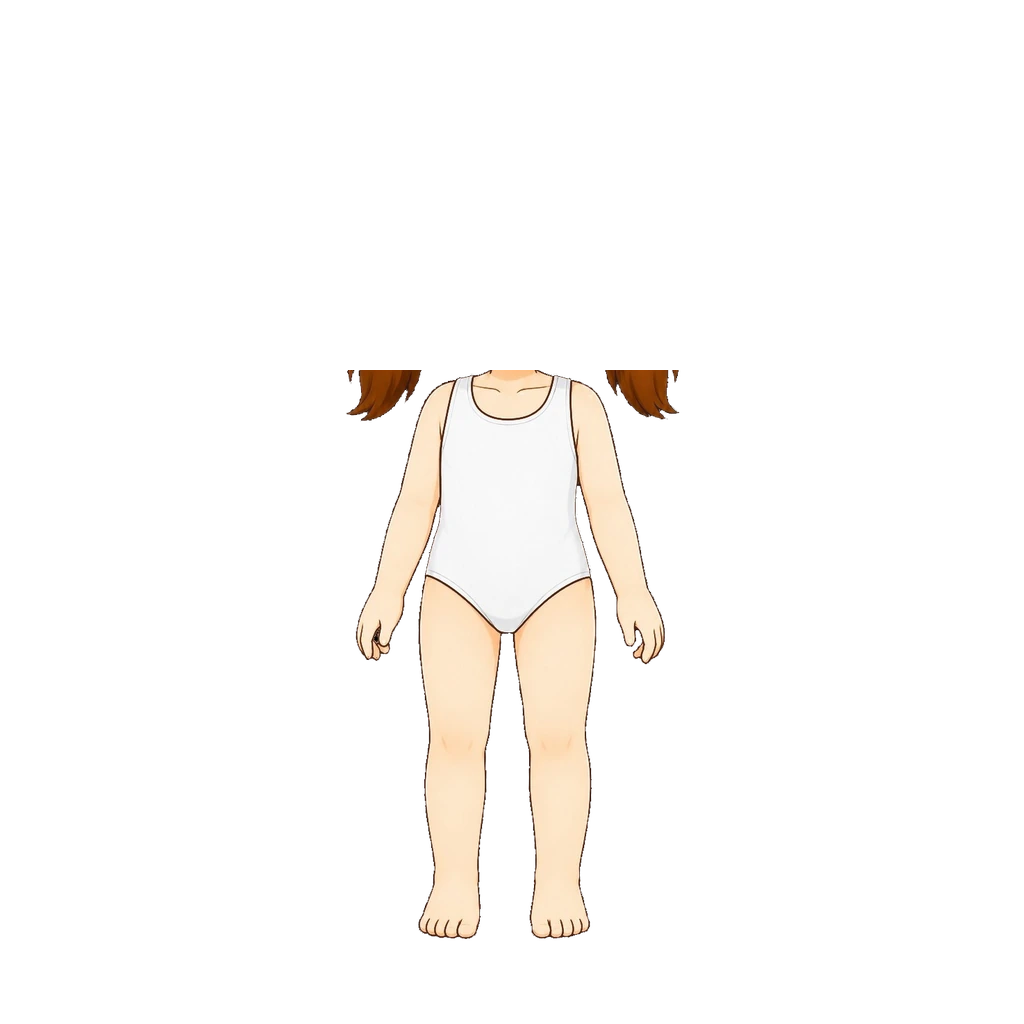
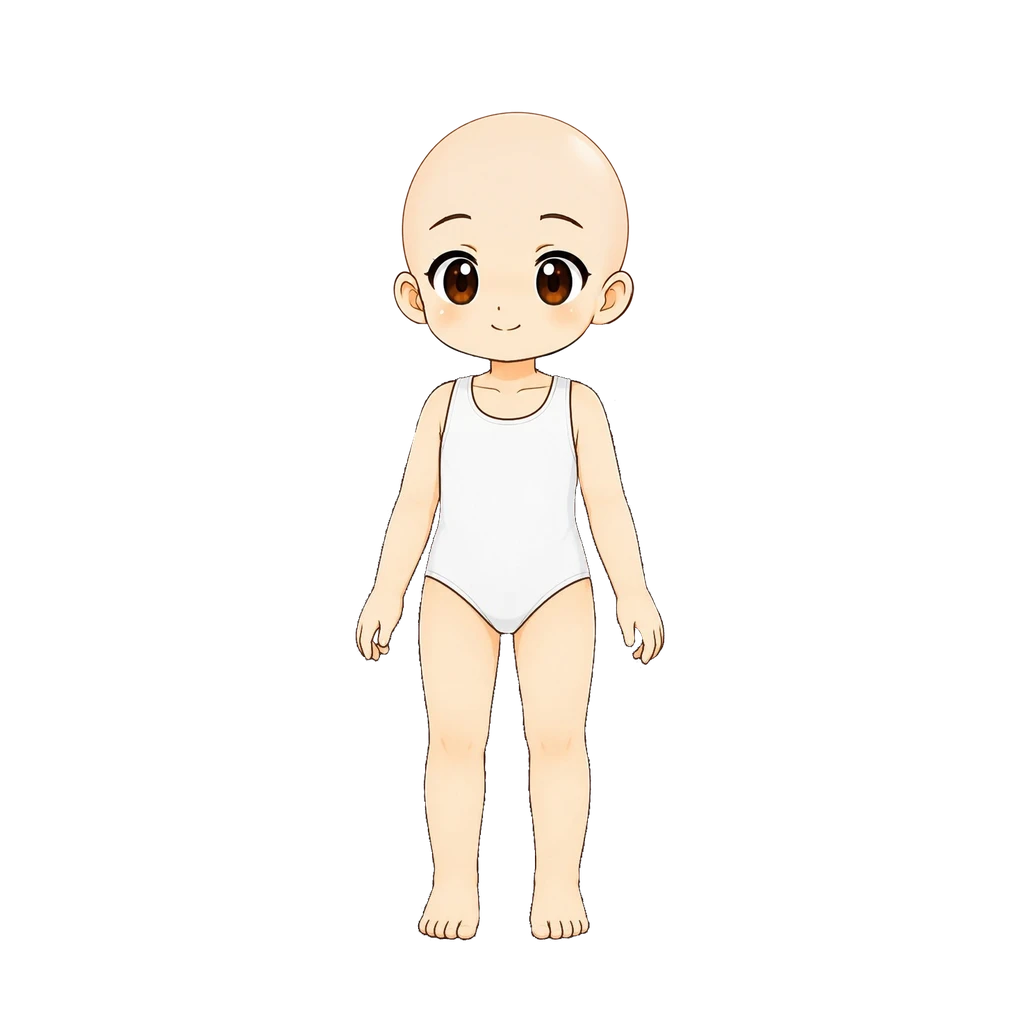
여아 베이스 v10: 민머리 몸 + 머리카락 머리 (#757)
남아 v10과 같은 구조. 합본을 v8 실루엣에 맞춰(IoU 0.991) 기존 여아 옷·모자는 그대로 맞는다. 머리 장의 턱선 아래 살색 띠는 얼굴 폭 안에서만 지웠다. 경로 ?v=10.

Claude-Session: https://claude.ai/code/session_018maNuYqDfFyRSe9uKpZhPR

diff --git a/src/data/avatarEquipment.js b/src/data/avatarEquipment.js
@@ -42,7 +42,7 @@ export const DEFAULT_CHAR_DISPLAY_MODE = CHAR_DISPLAY_GROWTH;
    1024×1024 이미지. 모든 장비는 이 위에 덧씌워진다.
    아트가 아직 없으면 뷰어가 성장 3단계 캐릭터 → 이모지 순으로 폴백한다. */
 export const AVATAR_BASE_IMG   = "assets/avatar/base/default.webp?v=11";        // 남아(머리+몸통 합본 — 폴백용)
-export const AVATAR_BASE_IMG_GIRL = "assets/avatar/base/default-girl.webp?v=8"; // 여아(합본 — 폴백용)
+export const AVATAR_BASE_IMG_GIRL = "assets/avatar/base/default-girl.webp?v=10"; // 여아(합본 — 폴백용)
 /* 베이스를 '몸통'과 '머리' 두 장으로 나눠 둔다 (사용자 확정).
    모자처럼 얼굴째 덮는 장비(hidesHead)를 쓰면 머리 장을 아예 안 그리고 그 자리에 장비 그림만 얹는다.
    → 예전처럼 베이스 머리 위에 덮어 씌우면 크기가 조금만 안 맞아도 턱선·귀선이 겹쳐 보였는데,
@@ -70,11 +70,15 @@ export const AVATAR_BASE_IMG_GIRL = "assets/avatar/base/default-girl.webp?v=8"; 
      · 속옷은 기본 반팔티·반바지(starter, 벗을 수 없음)가 늘 가린다.
    보일 모습(민머리+머리카락)이 v9 와 98.9% 겹쳐 기존 옷·장비는 그대로 맞는다.
    [2026-10-02] head.webp 가 턱선 아래로 3px(y399~401) 더 내려와 목보다 진한 주황 띠가 보였다(사용자 지적)
-   → 열마다 턱선(진한 선) 바로 아래부터 알파를 지웠다(432px). 경로 head·default ?v=11. */
+   → 열마다 턱선(진한 선) 바로 아래부터 알파를 지웠다(432px). 경로 head·default ?v=11.
+   [2026-10-02] 여아 베이스 v10 — 남아와 같은 **민머리 + 머리카락 머리** 구조 (사용자 원화).
+     머리카락 머리를 민머리 얼굴(눈~입)에 템플릿 매칭(배율 0.996 · 일치 0.906)으로 얹은 합본을 v8 실루엣에 맞췄다
+     (배율 0.6957, IoU 0.991) → 기존 여아 옷·모자를 다시 맞출 필요가 없다. 갈래머리는 머리 장에 들어 있다.
+     머리 장이 턱선 아래로 2~5px 내려온 살색은 얼굴 폭(x430~600) 안에서만 지웠다(147px). 경로 ?v=10. */
 export const AVATAR_BASE_BODY_IMG      = "assets/avatar/base/body.webp?v=10";
 export const AVATAR_BASE_HEAD_IMG      = "assets/avatar/base/head.webp?v=11";
-export const AVATAR_BASE_BODY_IMG_GIRL = "assets/avatar/base/body-girl.webp?v=8";
-export const AVATAR_BASE_HEAD_IMG_GIRL = "assets/avatar/base/head-girl.webp?v=8";
+export const AVATAR_BASE_BODY_IMG_GIRL = "assets/avatar/base/body-girl.webp?v=10";
+export const AVATAR_BASE_HEAD_IMG_GIRL = "assets/avatar/base/head-girl.webp?v=10";
 export const AVATAR_BASE_EMOJI = "🧒";
 
 /* ── 기본 배경 (아이템 아님) ────────────────────────────────────────── */

diff --git a/art-src/README.md b/art-src/README.md
@@ -471,9 +471,10 @@ getBoundingClientRect로 재서 정한다. 2026-08-05 점검에서 이 기준을
 | bg-jungle-v4-src.webp | 꾸미기 배경 '정글 원정대' 원화 v4 (869×1810 = 1:2.083 — 무대 칸 1:2.09 와 사실상 같아 잘리는 데가 없다). v3과 구도·소품은 그대로다(개울 건너는 큰 징검다리 위에 아이가 서고, 길 끝에 코끼리, 왼쪽 나무에 나무늘보, 오른쪽 가지에 큰부리새, 멀리 산) — 전체가 노란빛 쪽으로 한 톤 따뜻해지고 징검다리가 커졌으며 멀리 산이 또렷해졌다. deco 🐒 🐍 🌺 · tint 연한 초록 0.10 · darkStage 끔 — v1부터 같은 설정이다(그림에 원숭이·뱀·꽃이 없고, 위쪽이 밝은 연둣빛이라 크림색 문구가 안 읽힌다). 받은 그대로 톤 보정 없음. art-src 는 q92(181KB), 배포본은 q80(74KB) | stage-bg-jungle.webp |
 | bg-island-v1-src.webp | 꾸미기 배경 '보물섬' 원화 v1 (869×1810 = 1:2.083 — 무대 칸 1:2.09 와 사실상 같아 잘리는 데가 없다). 가운데로 난 모랫길 끝에 바위섬과 폭포, 그 아래 동굴 안에서 보물상자가 빛난다. 야자수·에메랄드빛 바다·구름·오른쪽 아래 조개. 그림이 장식으로 넣던 것을 대부분 그려서(🏝 🌴 💰 🐚) deco 는 그림에 없는 것만 남겼다: 🗺 🏴☠ ⚓ 🦀. tint 골드 0.30 → 연한 파랑 0.10(위쪽이 밝은 하늘색이라 골드를 덮으면 탁해진다 — 공룡 섬과 같은 판단). darkStage 는 끔 — 위쪽이 밝은 하늘이라 크림색 문구가 안 읽힌다. 원화 없는 bakery(푸딩 섬)에만 남겼다. 받은 그대로 톤 보정 없음. art-src 는 q92(144KB), 배포본은 q80(56KB) | stage-bg-island.webp |
 | bg-forest-v4-src.webp | 꾸미기 배경 '마법 숲' 원화 v4 (872×1804 = 1:2.069 — v3와 같은 크기, 무대 칸 1:2.09 와 거의 같아 좌우가 아주 조금 잘린다). v3와 구도·소품이 같다 — 연보라·연분홍 파스텔 숲, 가운데 빛나는 아치문이 난 큰 나무, 그 왼쪽에 하얀 사슴, 위쪽에 빛나는 나비, 좌우 가장자리에 액자처럼 선 큰 나무 두 그루, 앞쪽에 보라 수정·빛나는 버섯, 가운데로 난 밝은 크림빛 길. 달라진 건 채색이다 — v3의 진한 색을 수채화처럼 옅게 풀어 전체가 부드러워졌고, 잎·풀의 잔결이 줄면서 큰 색면 위주가 됐다. 그 덕에 압축이 잘 먹어 배포본이 121KB → 87KB. tint 연보라 rgba(200,180,245,0.10) · darkStage 끔 — v3 그대로다(위쪽이 밝은 분홍·연보라라 크림색 문구가 안 읽힌다). deco 목록도 손대지 않았다 — 장식 이모지를 화면에서 통째로 꺼 둔 상태(SHOW_BG_DECO_EMOJI)라 눈으로 맞춰 볼 수 없어서, 다시 켤 때 그림 보고 고른다. 받은 그대로 톤 보정 없음. art-src 는 q92(206KB), 배포본은 q80(87KB) | stage-bg-forest.webp |
-| base-v8-girl-src.webp | **아바타 베이스 v8 — 머리+몸통 한 장 (사용자가 v7 디자인만 다듬어 다시 그려 줌, 2026-09-27 탑재)**. 723×1536, v7과 원화 캔버스·알파 상자·목선 y가 거의 같다(남 630·여 578 그대로 맞았다 — 겹쳐서 확인함). 남아는 앞머리, 여아는 갈래머리 모양이 달라졌다. **탑재는 v7과 같은 공식** — 알파 상자 높이를 848로 줄여 발끝 y940·가로 중심 x512, 목선에서 머리/몸통을 가로로 자른다. 결과 상자 남 (340,89)-(684,942) / 여 (343,89)-(682,941) — v7과 같은 화면 자리라 아바타 크기가 안 바뀐다. 경로에 ?v=8 을 붙여 기존 기기의 캐시를 끊었다 | avatar/base/body(-girl)·head(-girl)·default(-girl).webp (?v=8) — **남아는 v9 로 교체됨(아래 행)** |
 | base-v10-boy-bald-src.webp | **아바타 베이스 v10 남아 — 민머리 몸 한 장 (사용자 원화 2026-10-02)**. 483×1173, 투명 배경, 속옷 차림. 모자를 쓸 때 머리카락이 모자 밖으로 삐져나오지 않게 하려고 사용자가 민머리로 따로 그렸다. **목에서 자르지 않고 머리째 base/body.webp 로 맨 아래에 깐다.** 아래 머리카락 머리를 얼굴(눈~입) 템플릿 매칭으로 얹은(배율 1.004 · 일치 0.967) 합본을 v9 탑재본 실루엣에 맞췄다 — 합본 알파 상자 높이 850 · (342,89) · 배율 0.6979, 겹침 IoU 0.989 라 기본옷·기존 장비를 다시 맞출 필요가 없다. 민머리 탑재 상자 (344,118)-(683,942) | avatar/base/body.webp · default.webp |
 | base-v10-boy-hair-src.webp | **아바타 베이스 v10 남아 — 머리카락 머리 (사용자 원화 2026-10-02)**. 487×446, **흰 불투명 배경**(알파 없음)으로 받았다 → 가장자리에서 4-연결로 이어진 흰색(최솟값>232·채도<18)만 지우고 경계 1px은 흰 정도로 반투명 처리. 위 민머리와 같은 변환으로 얹어 base/head.webp — 탑재 상자 (340,87)-(686,403). **[2026-10-02 보정]** 탑재본이 턱선 아래로 3px(y399~401) 더 내려와 목보다 진한 주황 띠가 보여서, 열마다 턱선(알파>100·최댓값<130 인 가장 아래 줄, y380~405) 바로 아래 알파를 지웠다(432px, ?v=11). 평소에는 이 머리가 민머리 위에 보이고, 얼굴째 덮는 모자(hidesHead)를 쓰면 이 장만 빠지고 민머리 위에 모자 그림이 얹힌다 | avatar/base/head.webp · default.webp |
+| base-v10-girl-bald-src.webp | **아바타 베이스 v10 여아 — 민머리 몸 한 장 (사용자 원화 2026-10-02, v8 교체)**. 447×1191, 투명 배경, 흰 수영복 차림. 남아 v10과 같은 구조로 **목에서 자르지 않고 머리째 base/body-girl.webp 로 맨 아래에 깐다.** 아래 머리카락 머리를 얼굴(눈~입) 템플릿 매칭으로 얹은(배율 0.996 · 일치 0.906 — 앞머리가 눈썹을 가려 남아보다 낮다) 합본을 v8 탑재본 실루엣에 맞췄다 — 합본 알파 상자 높이 848 · 배율 0.6957, 겹침 IoU 0.991 이라 기본옷·기존 여아 장비를 다시 맞출 필요가 없다. 민머리 탑재 상자 (353,109)-(667,943) | avatar/base/body-girl.webp · default-girl.webp (?v=10) |
+| base-v10-girl-hair-src.webp | **아바타 베이스 v10 여아 — 머리카락 머리(갈래머리 포함) (사용자 원화 2026-10-02)**. 479×475, 투명 배경. 위 민머리와 같은 변환으로 얹어 base/head-girl.webp — 탑재 상자 (345,90)-(681,424). 남아 때처럼 턱선 아래로 2~5px 내려온 살색이 있어, **얼굴 폭(x430~600) 안에서만** 열마다 턱선(알파>100·최댓값<130 인 가장 아래 줄, y330~380) 아래의 밝은 픽셀을 지웠다(147px) — 갈래머리는 건드리지 않는다. 평소에는 이 머리가 민머리 위에 보이고, 얼굴째 덮는 모자(hidesHead)를 쓰면 이 장만 빠진다 | avatar/base/head-girl.webp · default-girl.webp (?v=10) |
 | starter-tee-src.webp | **기본 반팔티 (사용자 원화 2026-08-15, 2026-08-19 탑재)** — 흰 반팔. **807**×1536 (베이스보다 넓은 캔버스) · 알파 상자 x70~733·y410~990 · 가로 중심 **401.5**. 몸보다 크게 그려져 있어 탑재 시 중심을 401.5→355 로 옮기고 줄인다. 배치는 아래 표 참고 — **남녀 값이 다르다**. 상의 슬롯 **기본 지급 아이템**(top_tee_white · 값 0 · 못 벗음) | avatar/top/starter-tee(-girl).webp |
 | base-v6-body-dressed-src.webp | **옷 입은 몸통 원화 (사용자 원화 2026-08-16)** — 흰 반팔·초록 반바지·흰 양말을 입은 목 아래 몸통 한 장. 260×543, 배경 불투명으로 받아 가장자리 플러드필로 배경만 지웠다(셔츠도 흰색이라 전역 흰색 제거는 못 쓴다). 탑재: 배율 **1.10497** 로 키워 목을 y340·발바닥을 y940 에 맞추고 가로 중심을 512 에 뒀다 → 1024 캔버스 x369~656(폭 287) · y340~940. 기존 몸통(폭 277)보다 10px 넓다. **베이스 몸통 4장을 이걸로 교체했다** — 몸통 2장(남녀 공용 같은 그림) + 합본 2장(몸통+머리). 머리 그림(head/head-girl)은 그대로다 | avatar/base/body.webp · body-girl.webp · default.webp · default-girl.webp |
 | starter-shorts-src.webp | **기본 반바지 (사용자 원화 2026-08-15, 2026-08-19 탑재)** — 초록 반바지. **807**×1536 · 알파 상자 x160~644·y654~964 · 가로 중심 **401.5**. 원화가 몸보다 가로로 넓고 세로로 짧아 **균등 배율로는 못 맞춘다** — 균등하게 맞추면 속옷이 비치거나 옆이 튀어나와서 폭(sx)과 길이(sy)를 따로 잡았다. 배치는 아래 표 참고 — **남녀 값이 다르다**. 하의 슬롯 **기본 지급 아이템**(bottom_shorts_green · 값 0 · 못 벗음) | avatar/bottom/starter-shorts(-girl).webp |
